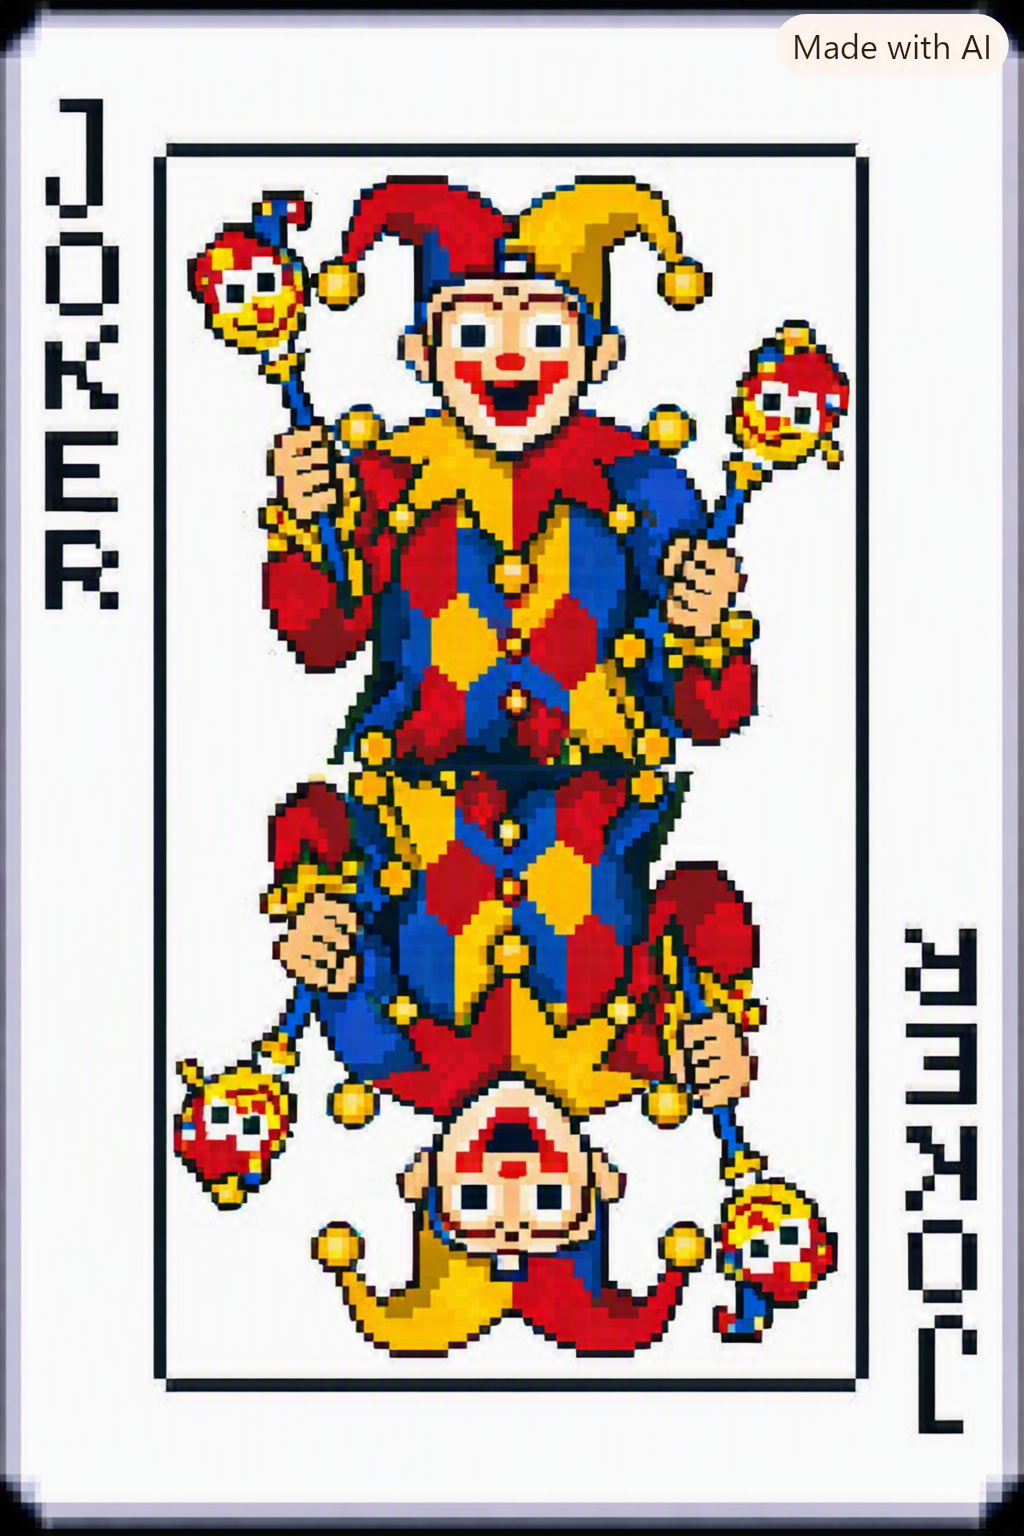
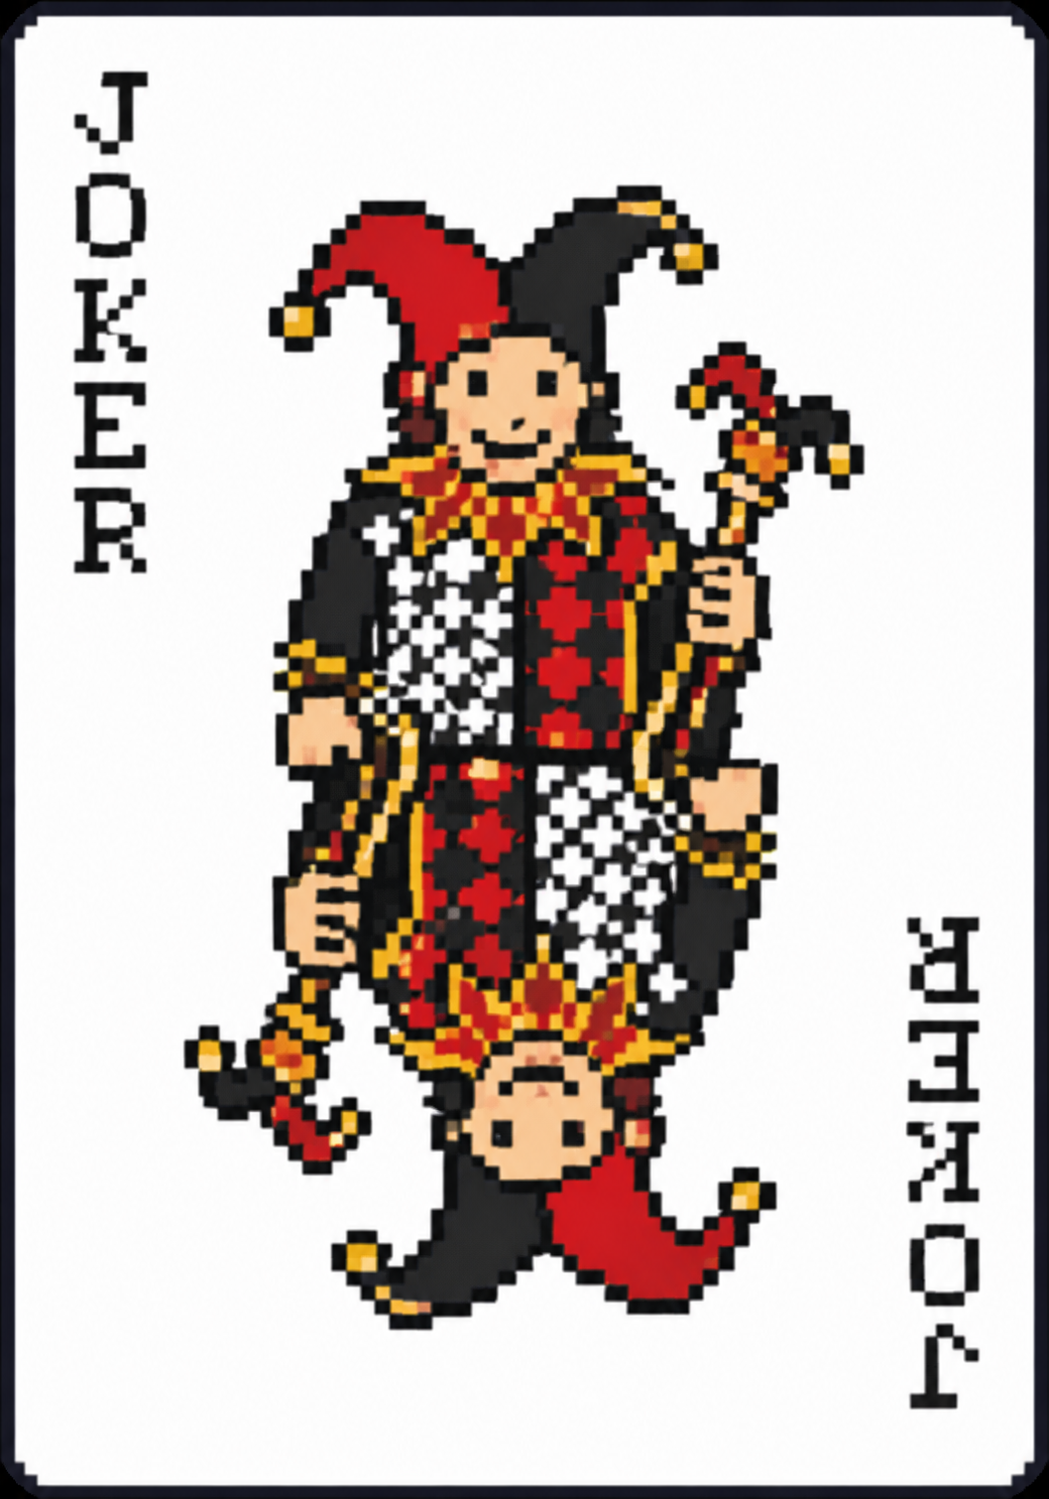
Added comments to code, changed the placement of the tables so they move with the camera instead of staying in the same place, and added collision detection with objects

diff --git a/src/main/java/com/example/nea/CardDeck.java b/src/main/java/com/example/nea/CardDeck.java
@@ -1,22 +1,11 @@
 package com.example.nea;
 
-import org.w3c.dom.ls.LSOutput;
-
 import java.util.ArrayList;
+import java.util.Collections;
 
-public class Card_deck {
+public class CardDeck {
     int jokers = 2;
     ArrayList<Card> deck = generateDeck();
-
-    public void main (String[] args){
-        for (int i = 0; i < deck.size(); i++) {
-            System.out.print(deck.get(i).number + " ");
-            System.out.print(deck.get(i).value + " ");
-            System.out.print(deck.get(i).suit + " ");
-            System.out.println(deck.get(i).colour + " ");
-        };
-    }
-
 
     // function to generate a standard deck using the Card class
     public ArrayList<Card> generateDeck() {
@@ -28,18 +17,14 @@ public class Card_deck {
         int suit_count = 0;
 
         for (int i = 0; i < 52; i++) {
-            if (number > 13){
+            if (number > 13) {
                 number = 1;
                 suit_count++;
             }
 
-            int value = number;
+            int value = Math.min(number, 10);
 
-            if (number >= 10){
-                value = 10;
-            }
-
-            if (i >= 26){
+            if (i >= 26) {
                 colour = "red";
             }
 
@@ -49,7 +34,19 @@ public class Card_deck {
             number++;
         }
 
+        // shuffle the deck
+        Collections.shuffle(deck);
+
         return deck;
+    }
+
+    // function to deal cards
+    public Card dealCard() {
+
+        Card to_return =  deck.getFirst();
+        deck.removeFirst();
+
+        return to_return;
     }
 
 

diff --git a/src/main/java/com/example/nea/Player.java b/src/main/java/com/example/nea/Player.java
@@ -1,5 +1,7 @@
 package com.example.nea;
 
+import javafx.geometry.BoundingBox;
+import javafx.geometry.Bounds;
 import javafx.scene.image.Image;
 import javafx.scene.image.ImageView;
 import javafx.scene.input.KeyCode;
@@ -142,8 +144,22 @@ public class Player {
 
         // check to see if it collides with any of the tables
         ArrayList<GameSprites> tables = casino.game_tables;
-        for (int i = 0; i < tables.size(); i++) {
+        for (GameSprites table : tables) {
+            // get bounds for table
+            Bounds table_bounds = table.sprite.getBoundsInParent();
 
+            // get bounds for sprite
+            Bounds player_bounds = sprite.getBoundsInParent();
+
+            if (player_bounds.intersects(table_bounds)){
+                // reset the values for map_x and map_y
+                map_x = prev_map_x;
+                map_y = prev_map_y;
+
+                // reset the sprites position on the map
+                sprite.setX(map_x-cam_x);
+                sprite.setY(map_y-cam_y);
+            }
         }
     }
 }

diff --git a/src/main/java/com/example/nea/Blackjack.java b/src/main/java/com/example/nea/Blackjack.java
@@ -1,13 +1,32 @@
 package com.example.nea;
 
+import javafx.scene.Scene;
+import javafx.scene.layout.VBox;
+
+import java.util.ArrayList;
+
 public class Blackjack extends Games {
     public Blackjack(Main main) {
         super(main);
     }
 
+    Scene scene;
+    VBox root;
+
     @Override
     void playGame(){
         super.playGame();
+
+        root = new VBox();
+        scene = new Scene(root);
+
+        CardDeck card_deck = new CardDeck();
+
+        for (int i = 0; i < 52; i++) {
+
+        }
+
+
         System.out.println("Playing Blackjack");
     }
 }

diff --git a/src/main/java/com/example/nea/Casino.java b/src/main/java/com/example/nea/Casino.java
@@ -11,7 +11,7 @@ import java.util.ArrayList;
 // main class which has the scene where the player can move around and choose which game they would like to play
 
 public class Casino {
-
+    // global objects and variables
     Pane root;
     Scene scene;
 
@@ -25,6 +25,8 @@ public class Casino {
 
     int cam_x;
     int cam_y;
+
+    boolean is_interacting; // to check if the sprite is interacting with any tables
 
     ArrayList<GameSprites> game_tables;
 

diff --git a/src/main/java/com/example/nea/GameSprites.java b/src/main/java/com/example/nea/GameSprites.java
@@ -30,6 +30,7 @@ public class GameSprites {
         this.map_x = map_x;
         this.map_y = map_y;
 
+        // set the position on the map
         sprite.setX(map_x);
         sprite.setY(map_y);
     }
